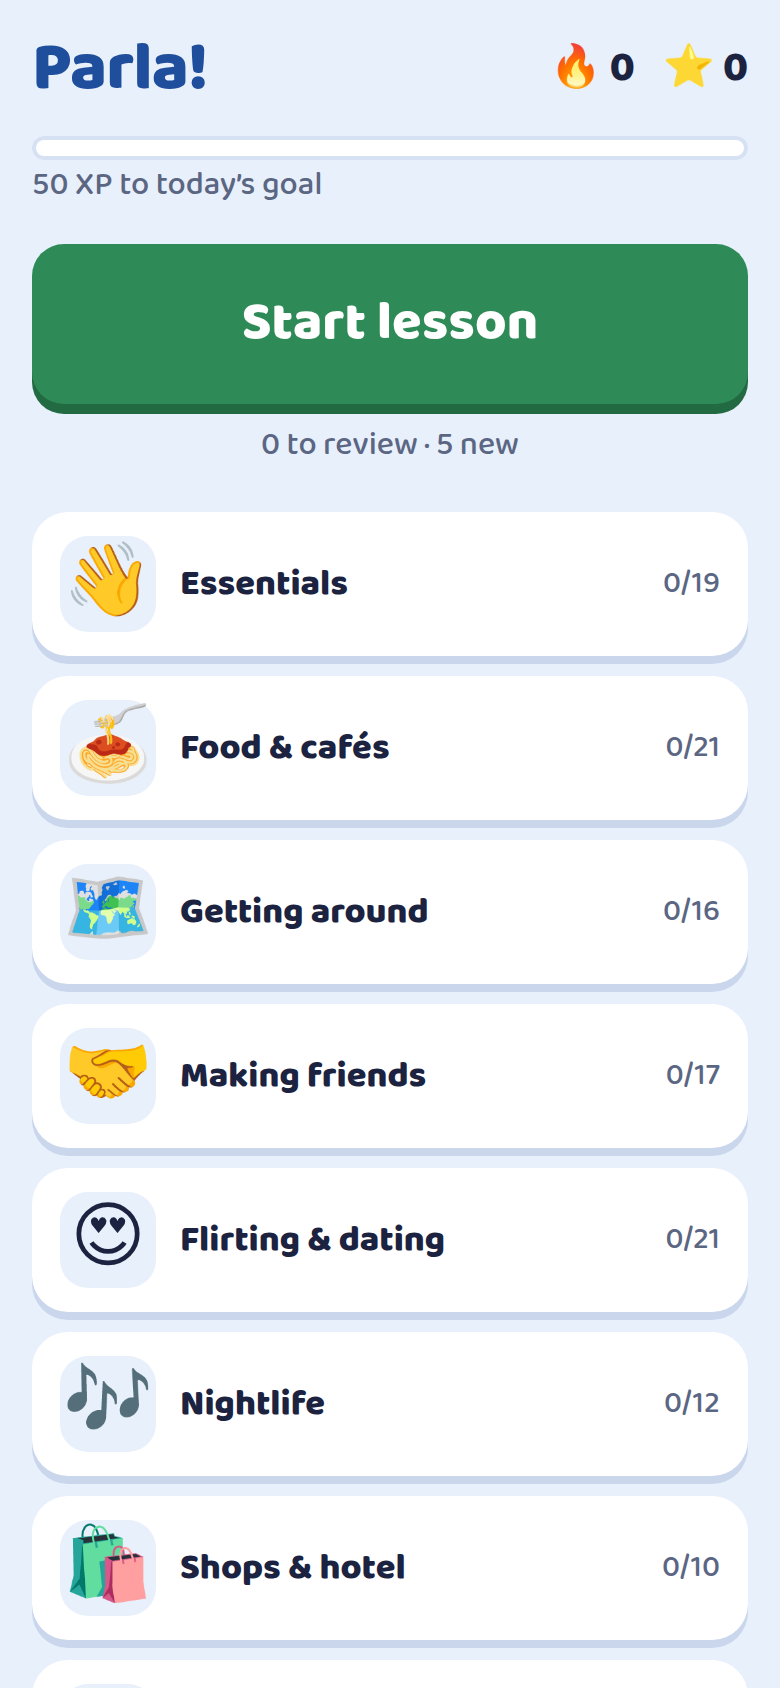
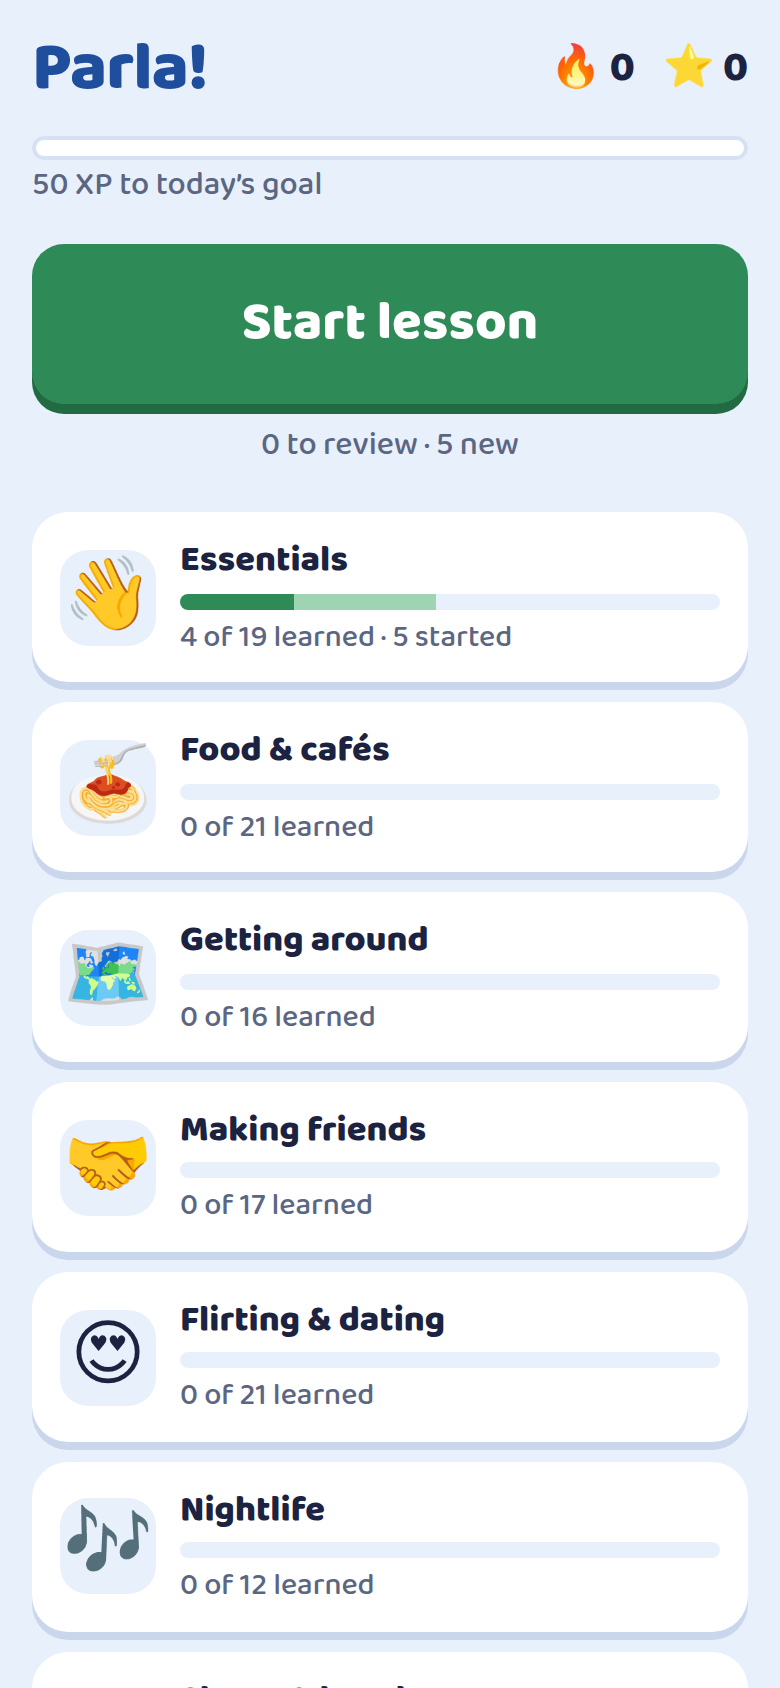
Home: units show 'N of M learned · K started' with a two-tone bar

Changed region(s): [[0.0308, 0.3081, 0.9538, 0.9858], [0.9231, 0.5545, 0.9538, 0.5853]]

diff --git a/app.js b/app.js
@@ -91,8 +91,10 @@ function home() {
     <div class="small">${xp >= GOAL ? 'Daily goal done. Bravo!' : `${GOAL - xp} XP to today’s goal`}</div>
     <div class="start"><button class="btn go" id="go">Start lesson</button><div class="small">${sub}</div></div>
     <div class="units">${UNITS.map((u, i) => {
-      const cs = CARDS.filter(c => c.unit === i), n = cs.filter(learned).length;
-      return `<button class="unit" data-u="${i}"><span class="ic">${u.icon}</span><span style="flex:1"><span class="nm">${esc(u.name)}</span><span class="bar"><i style="width:${n / cs.length * 100}%"></i></span></span><span class="ct">${n}/${cs.length}</span></button>`;
+      // Dark green = learned (right twice), light green = started but not learned yet.
+      const cs = CARDS.filter(c => c.unit === i), n = cs.filter(learned).length, met = cs.filter(c => S.cards[c.id]).length;
+      const a = n / cs.length * 100, b = met / cs.length * 100;
+      return `<button class="unit" data-u="${i}"><span class="ic">${u.icon}</span><span style="flex:1"><span class="nm">${esc(u.name)}</span><span class="bar" style="background:linear-gradient(90deg,var(--basil) ${a}%,var(--leaf) ${a}% ${b}%,var(--sky) ${b}%)"></span><span class="ct">${n} of ${cs.length} learned${met > n ? ` · ${met - n} started` : ''}</span></span></button>`;
     }).join('')}</div>
     <div class="row"><button class="link" id="pb">📖 My phrases</button><button class="link" id="hist">🕘 History</button></div>`;
   app.querySelector('#go').onclick = () => startLesson(null);

diff --git a/index.html b/index.html
@@ -13,7 +13,7 @@
 @font-face{font-family:"Baloo 2";font-weight:500 800;font-display:swap;src:url(./fonts/baloo2-latin.woff2) format("woff2")}
 :root{
   --blue:#1F4E9C; --blue-dk:#163a75; --sky:#E8F0FB; --lemon:#F6D33C; --lemon-dk:#d4b120;
-  --basil:#2E8B57; --basil-dk:#226a42; --tomato:#D7362B; --tomato-dk:#a8281f;
+  --basil:#2E8B57; --leaf:#9fd4b2; --basil-dk:#226a42; --tomato:#D7362B; --tomato-dk:#a8281f;
   --ink:#1B2340; --mute:#5b6683; --white:#fff;
 }
 *{box-sizing:border-box;-webkit-tap-highlight-color:transparent}
@@ -49,9 +49,8 @@ h1,h2,p{margin:0}
 .unit:active{transform:translateY(3px);box-shadow:0 1px 0 #c9d6ec}
 .unit .ic{font-size:2rem;width:48px;height:48px;display:grid;place-items:center;background:var(--sky);border-radius:14px;flex:none}
 .unit .nm{font-weight:800}
-.unit .bar{height:8px;background:var(--sky);border-radius:99px;overflow:hidden;margin-top:4px}
-.unit .bar>i{display:block;height:100%;background:var(--basil)}
-.unit .ct{font-size:.85rem;color:var(--mute);flex:none}
+.unit .bar{display:block;height:8px;background:var(--sky);border-radius:99px;overflow:hidden;margin-top:4px}
+.unit .ct{display:block;font-size:.85rem;color:var(--mute);margin-top:4px}
 .link{background:none;color:var(--blue);font-weight:800;text-decoration:underline;padding:16px 0;text-align:center;width:100%}
 
 /* lesson */

diff --git a/sw.js b/sw.js
@@ -1,6 +1,6 @@
 // Offline: precache the app and every audio clip; serve cache first, refresh shell in the background.
 importScripts('./data.js');
-const CACHE = 'parla-v4', AUDIO_CACHE = 'parla-audio-v1';   // audio lives in its own cache so app updates don't re-download 5 MB
+const CACHE = 'parla-v5', AUDIO_CACHE = 'parla-audio-v1';   // audio lives in its own cache so app updates don't re-download 5 MB
 const SHELL = ['./', './index.html', './app.js', './data.js', './manifest.webmanifest', './icon-192.png', './icon-512.png', './fonts/baloo2-latin.woff2'];
 const AUDIO = CARDS.flatMap(c => [`./audio/${c.id}.mp3`, `./audio/${c.id}s.mp3`]);
 self.addEventListener('install', e => e.waitUntil(Promise.all([caches.open(CACHE).then(c => c.addAll(SHELL)), caches.open(AUDIO_CACHE).then(async c => { const have = new Set((await c.keys()).map(r => new URL(r.url).pathname)); return c.addAll(AUDIO.filter(a => !have.has(new URL(a, self.registration.scope).pathname))); })]).then(() => self.skipWaiting())));
